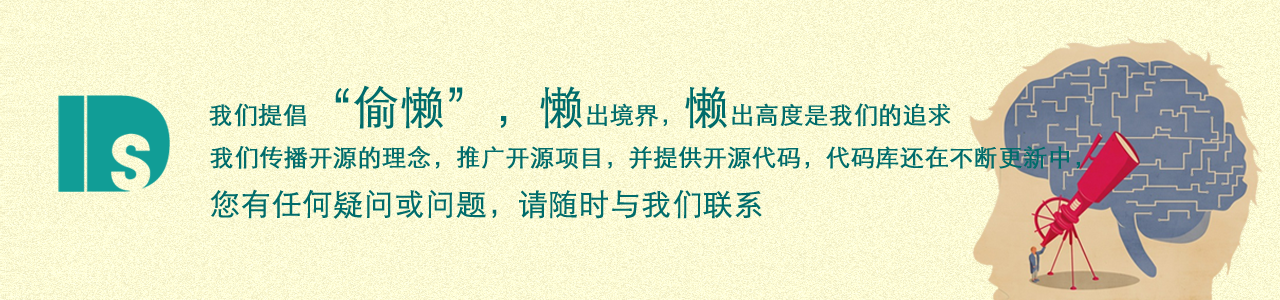
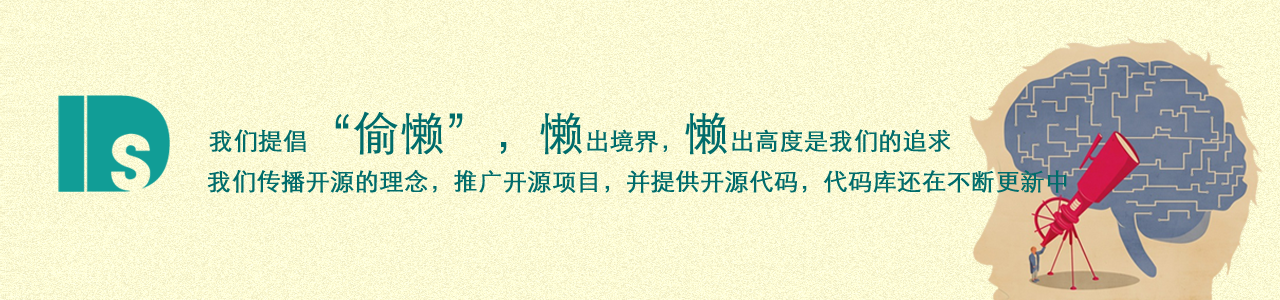
最新更新

Changed region(s): [[0.1562, 0.27, 0.8438, 0.75]]

diff --git a/new-version/about.html b/new-version/about.html
@@ -55,16 +55,8 @@
         <!-- event img -->
         <article class="top-parallax">
             <section class="display">
-                <div class="slider-bg"><img src="assets/big/big2.png"></div>
+                <div class="slider-bg"><img src="assets/img/img_aboutus.png"></div>
             </section>
-            <section class="container">
-                <div class="row">
-                    <div class="title">
-                        <h1>最近活动</h1>
-                    </div>
-                </div>
-            </section>
-            <section class="top"></section>
         </article>
         <!-- event img -->
         <article class="doc">
@@ -72,7 +64,7 @@
                 <div class="row">
                     <div class="col-xs-12 col-sm-12 col-md-12 col-lg-12">
                         <div class="content-panel-title">
-                        <h2><i class="orange icon-question-sign"></i><span class="grey">关于我们</span></h2>
+                        <h2><i class="orange icon-info-sign"></i><span class="grey">关于我们</span></h2>
                         <div class="pull-center">
                             <h4 class="orange">我们的宗旨：</h4>
                             <h2 class="grey"><i class="icon-rocket"></i>发现澳洲互联网创新价值的交流平台。</h2>
@@ -98,7 +90,7 @@
                             <hr>
                 <!-- 我们正在做 -->
                             <h3><i class="orange icon-sun"></i><span class="green">我们正在做</span></h3>
-                            <p>我们从2012年不停在建设澳洲互联网社区，定期举行主题<a href="event.html">线下聚会</a>，免费<a href="book.html">借阅书籍</a> , 提供<a href="dicuss.html">探讨平台</a>，同时发起海外华人<a href="resouce.html">开源社区</a>，希望更多俱乐部成员能一起参与开源项目。</p>
+                            <p>我们从2012年不停在建设澳洲互联网社区，定期举行主题<span class="big-font"><a href="event.html">线下聚会</a></span>，免费<span class="big-font"><a href="book.html">借阅书籍</a></span> , 提供<span class="big-font"><a href="forums.html">探讨平台</a></span>，同时发起海外华人<span class="big-font"><a href="opensource.html">开源社区</a></span>，希望更多俱乐部成员能一起参与开源项目。</p>
                             <ul>
                                 <li><i class="icon-angle-right"></i>时间： (墨尔本) 每月的第一个星期日下午 2：00</li>
                                 <li><i class="icon-angle-right"></i>时间： (悉尼) 每月的第二个星期日下午 2：00</li>
@@ -107,8 +99,14 @@
                             </ul>
                             <hr>
                 <!-- 开源社区 -->
-                            <h3><i class="orange icon-sun"></i><span class="green">开源社区</span></h3>
-                            <p>我们提倡“偷懒”，懒出境界，懒出高度是我们的追求。我们传播开源的理念，推广开源项目，并提供开源代码，代码库还在不断更新中，快来贡献您的开源代码，供大家切磋共享。</p>
+                            <h3><i class="orange icon-github-alt"></i><span class="green">开源社区</span></h3>
+                            <p>我们提倡“偷懒”，懒出境界，懒出高度是我们的追求。我们传播开源的理念，推广开源项目，并提供<span class="big-font"><a href="opensource.html">开源代码</a></span>，代码库还在不断更新中，快来贡献您的开源代码，供大家切磋共享。</p>
+                            <p>同时，我们也热切欢迎您贡献您的力量，为我们添砖加瓦，薪火相传，任重道远！你，你，还有你，让我们携手共建澳洲互联网最有创新价值的交流平台！</p>
+                            <hr>
+
+                <!-- 借阅书籍 -->
+                            <h3><i class="orange icon-book"></i><span class="green">借阅书籍</span></h3>
+                            <p>在一个每天都有新技术在诞生的时代，互联网技术每时每刻都在更新，技术日新月异有木有？一天不学就落伍有木有？好了，现在我们提供最新的IT相关<span class="big-font"><a href="opensource.html">书籍借阅</a></span>，并且完全，永久免费。（具体请查看<span class="big-font"><a href="opensource.html">借阅和捐赠图书</a>）</p>
                             <p>同时，我们也热切欢迎您贡献您的力量，为我们添砖加瓦，薪火相传，任重道远！你，你，还有你，让我们携手共建澳洲互联网最有创新价值的交流平台！</p>
                             <hr>
 
@@ -141,10 +139,9 @@
                             <li><i class="icon-usd"></i>定价 100-200 元统一收 200 元押金</li>
                         </ul>
                         <p>以上均逾期一月扣 10 元，连续 5 个月不还视为强买，滞纳金将用于本地帮会补充书源。</p>
-                        <p>欢迎社会各界捐赠：俱乐部现场面交，或邮寄/快递到指定地址。个人，团体，公司网站将留在 IDs 书库页以示感谢。</p>
+                        <p>欢迎社会各界捐赠：<br>俱乐部现场面交，或邮寄/快递到指定地址。个人，团体，公司网站将留在 IDs 书库页以示感谢。</p>
                     </div>
                 </div>
-
 
             <div class="col-xs-3 hidden-sm-3 col-md-3 col-lg-3">
                 <div class="content-panel">

diff --git a/new-version/contact.html b/new-version/contact.html
@@ -55,7 +55,7 @@
 
         <article class="top-parallax">
             <section class="display">
-                <div class="slider-bg"></div>
+                <div class="slider-bg"><img src="assets/img/img_contact.png"></div>
             </section>
         </article>
 
@@ -145,8 +145,9 @@
   <!-- contact --> 
 
     <div class="row">
+        <div class="content-panel">
         <h4 class="green">基本常务打杂有以下几位童鞋</h4>
-        <div class="col-xs-6 hidden-sm-6 col-md-6 col-lg-6">
+        <div class="col-xs-12 hidden-sm-6 col-md-6 col-lg-6">
             <div class="content-panel pull-center">
                 <p><b>墨尔本：</b>Zo, Dong, Aiyi, Peter, Amy, Lorena, Cheng, Ryan…</p>
                 <p>扫描二维码，加入墨尔本微信(WeChat)群组</p>
@@ -154,13 +155,14 @@
             </div>
         </div>
 
-        <div class="col-xs-5 hidden-sm-5 col-md-5 col-lg-5">
+        <div class="col-xs-12 hidden-sm-5 col-md-5 col-lg-5">
             <div class="content-panel pull-center">
                 <p><b>悉尼：</b>Simon, Sunny, Ken, Sean, Mike, Andrew, Elvis…</p>
                 <p>扫描二维码，加入悉尼微信(WeChat)群组</p>
                 <span class="pull-center"><img width="200" height="200" src="assets/img/qr-wechat.jpg" alt="" /></span>
             </div>
         </div>
+    </div>
     </div>
 </section>
 
